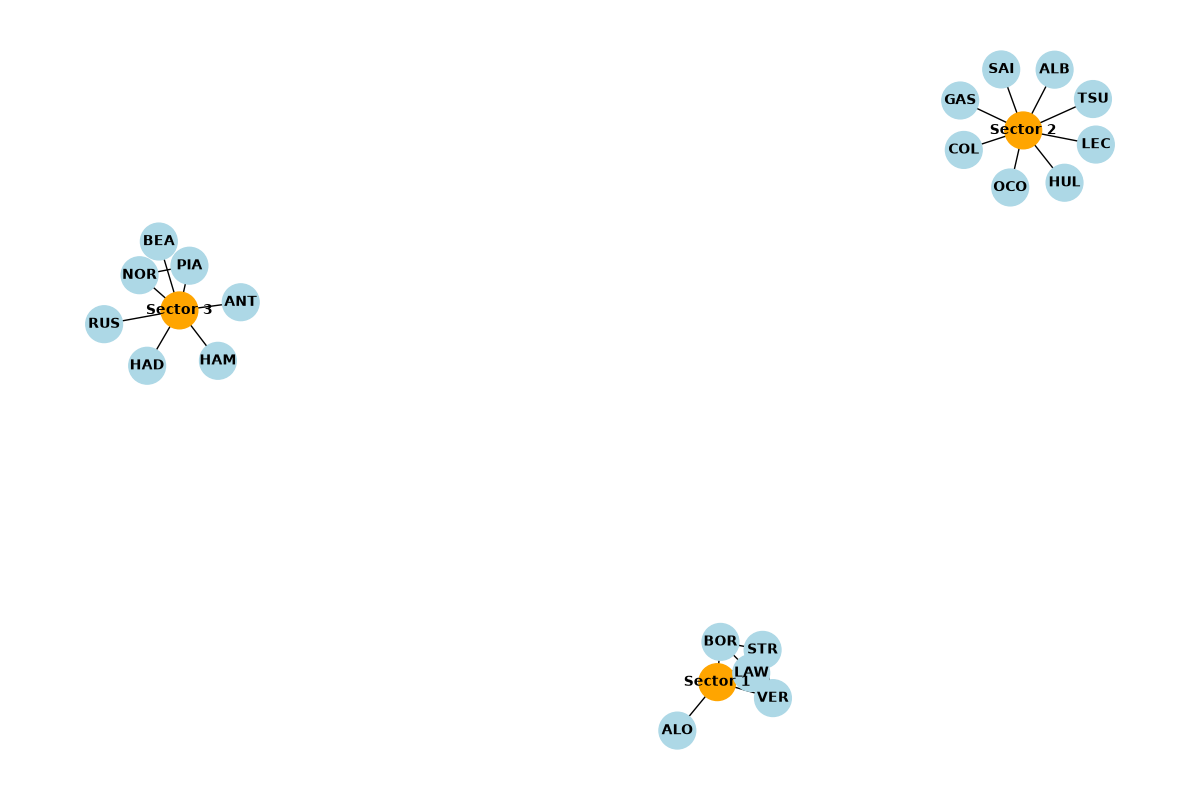
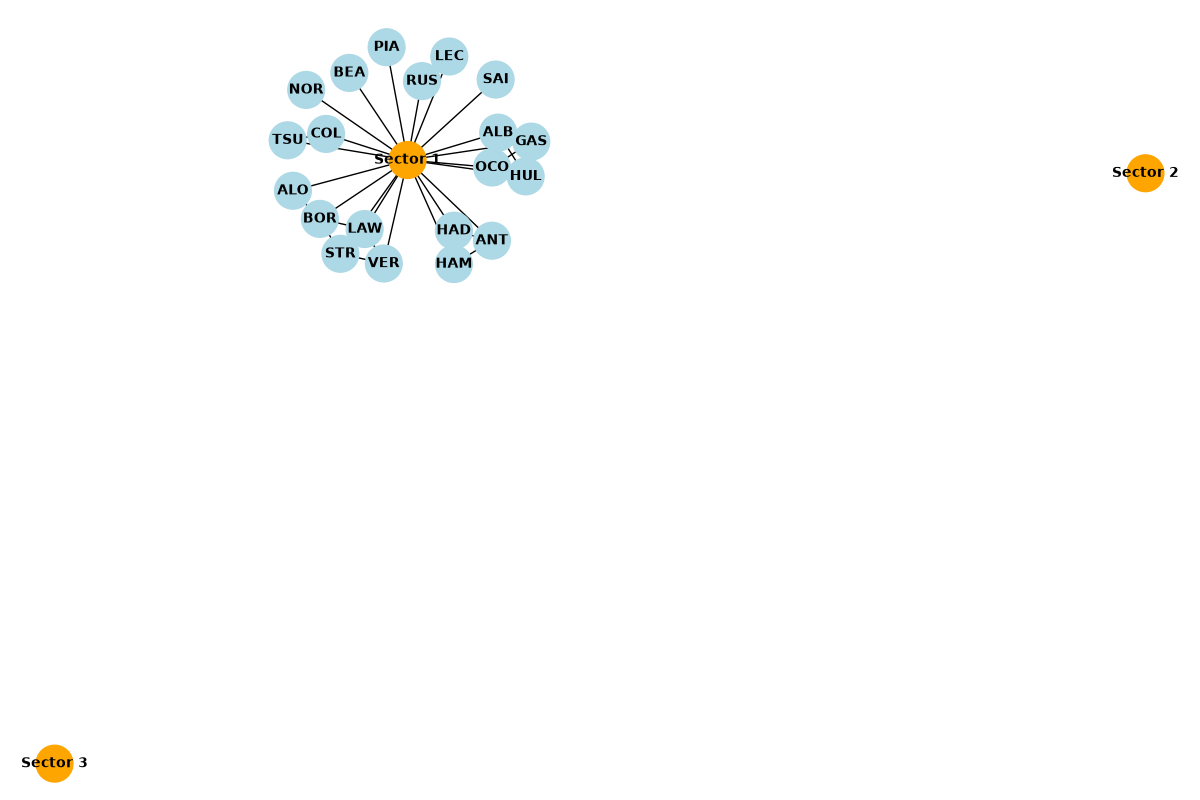
Driver Sectors incorrect lapping

diff --git a/SessionAnalyserClass.py b/SessionAnalyserClass.py
@@ -3,9 +3,10 @@ import os
 import numpy as np
 import pandas as pd
 import networkx as nx
+from pandas.core.indexers import check_key_length
 
 from DriverNodeClass import DriverNode
-from typing import List
+from typing import List, Dict, Any
 
 class SessionAnalyser:
     def __init__(self, year: int, location: str, session_type: str = 'R'):
@@ -17,7 +18,7 @@ class SessionAnalyser:
         self.session = fastf1.get_session(year, location, session_type)
         self.session.load()
 
-    def extract_all_drivers_at_lap(self, target_lap: int) -> List[DriverNode]:
+    def all_drivers_at_lap(self, target_lap: int) -> List[DriverNode]:
         """Extract all drivers and driver information at target_lap from session.drivers"""
         drivers = []
 
@@ -30,14 +31,11 @@ class SessionAnalyser:
         if leader_row.empty:
             leader_row = target_laps_df.iloc[[0]]
 
-        reference_session_time = leader_row['LapStartTime'].values[0]
         past_laps_all = laps_df[laps_df['LapNumber'] <= target_lap]
 
 
         for driver in self.session.drivers:
             driver_code = self.session.get_driver(driver)['Abbreviation']
-
-            driver_laps = self.session.laps[self.session.laps['Driver'] == driver_code]
             past_laps = past_laps_all[past_laps_all['Driver'] == driver_code]
 
             if past_laps.empty:
@@ -55,57 +53,7 @@ class SessionAnalyser:
             recent_laps_second = past_laps.tail(3)['LapTime'].dt.total_seconds()
             avg_time = round(recent_laps_second.mean(), 2) if len(recent_laps_second) > 0 else np.nan
 
-            current_sector = "Sector 1"
-            try:
-                active_lap = driver_laps[
-                    (driver_laps['LapStartTime'] <= reference_session_time) &
-                    (driver_laps['Time'] >= reference_session_time)
-                ]
-
-                if active_lap.empty:
-                    active_lap = driver_laps[
-                        (driver_laps['LapStartTime'] <= reference_session_time) &
-                        (driver_laps['LapStartTime'] + pd.Timedelta(seconds=120) >= reference_session_time)
-                    ].tail(1)
-
-                if active_lap.empty:
-                    active_lap = driver_laps[driver_laps['LapStartTime'] <= reference_session_time].tail(1)
-
-                if not active_lap.empty:
-                    active_lap_num = active_lap['LapNumber'].values[0]
-                    lap_row = active_lap.iloc[0]
-
-                    telemetry = self.session.laps.pick_drivers(driver_code).pick_laps(active_lap_num).get_telemetry()
-
-                    if not telemetry.empty and 'Distance' in telemetry.columns:
-                        time_diffs = (telemetry['SessionTime'] - reference_session_time).abs()
-                        closest_idx = time_diffs.argsort().iloc[0]
-                        current_distance = telemetry['Distance'].iloc[closest_idx]
-
-                        s1_time = lap_row['Sector1SessionTime']
-                        s2_time = lap_row['Sector2SessionTime']
-
-                        s1_dist, s2_dist = 0.0, 0.0
-                        if pd.notna(s1_time):
-                            s1_idx = (telemetry['SessionTime'] - s1_time).abs().argsort().iloc[0]
-                            s1_dist = telemetry['Distance'].iloc[s1_idx]
-                        if pd.notna(s2_time):
-                            s2_idx = (telemetry['SessionTime'] - s2_time).abs().argsort().iloc[0]
-                            s2_dist = telemetry['Distance'].iloc[s2_idx]
-
-                        if s1_dist == 0: s1_dist = 3000.0
-                        if s2_dist == 0: s2_dist = 7000.0
-
-                        if s1_dist > 0 and current_distance <= s1_dist:
-                            current_sector = "Sector 1"
-                        elif s2_dist > 0 and current_distance <= s2_dist:
-                            current_sector = "Sector 2"
-                        else:
-                            current_sector = "Sector 3"
-            except Exception:
-                pass
-
-            nearby_drivers = self.extract_nearby_drivers(driver_code, target_laps_df)
+            nearby_drivers = self.nearby_drivers(driver_code, target_laps_df)
 
             driver_obj = DriverNode(
                 driver_code=driver_code,
@@ -114,8 +62,7 @@ class SessionAnalyser:
                 tyre_age=age,
                 pit_stops=pit_count,
                 last_3_laps_average_seconds=avg_time,
-                nearby_drivers=nearby_drivers,
-                current_sector=current_sector
+                nearby_drivers=nearby_drivers
             )
 
             drivers.append(driver_obj)
@@ -123,7 +70,7 @@ class SessionAnalyser:
         return drivers
 
     @staticmethod
-    def extract_nearby_drivers(target_driver: str, target_laps_df) -> List[DriverNode]:
+    def nearby_drivers(target_driver: str, target_laps_df) -> List[DriverNode]:
         target_row = target_laps_df[target_laps_df['Driver'] == target_driver]
         if target_row.empty or pd.isna(target_row['Time'].values[0]):
             return []
@@ -149,13 +96,93 @@ class SessionAnalyser:
         nearby_drivers = sorted(nearby_drivers, key=lambda x: abs(x['time_gap']))
         return nearby_drivers
 
-    def build_session_graph(self, target_lap: int):
+    def sector_info(self, target_lap: int) -> Dict[str, Any]:
+        laps_df = self.session.laps
+        target_laps_df = laps_df[laps_df['LapNumber'] == target_lap]
+
+        if target_laps_df.empty:
+            return {}
+
+        leader_row = target_laps_df[target_laps_df['Position'] == 1]
+        if leader_row.empty:
+            leader_row = target_laps_df.iloc[[0]]
+
+        leader_code = leader_row['Driver'].values[0]
+
+        s1_crossing_time = leader_row['Sector1SessionTime'].values[0]
+        s2_crossing_time = leader_row['Sector2SessionTime'].values[0]
+        lap_end_crossing_time = leader_row['Sector3SessionTime'].values[0]
+
+        checkpoints = {
+            "Sector 1": (s1_crossing_time, 'Sector1SessionTime'),
+            "Sector 2": (s2_crossing_time, 'Sector2SessionTime'),
+            "Sector 3": (lap_end_crossing_time, 'Sector3SessionTime'),
+        }
+
+        results = {}
+
+        for checkpoint_name, (crossing_time, time_col) in checkpoints.items():
+            if pd.isna(crossing_time):
+                continue
+
+            drivers_at_moment = []
+
+            for driver in self.session.drivers:
+                driver_code = self.session.get_driver(driver)['Abbreviation']
+                driver_laps = laps_df[laps_df['Driver'] == driver_code]
+
+                if driver_laps.empty:
+                    continue
+
+                active_lap = driver_laps[
+                    (driver_laps['LapStartTime'] <= crossing_time) &
+                    (driver_laps['Time'] >= crossing_time)
+                ]
+
+                if active_lap.empty:
+                    active_lap = driver_laps[driver_laps['LapStartTime'] <= crossing_time].tail(1)
+
+                if not active_lap.empty:
+                    lap_row = active_lap.iloc[0]
+                    lap_num = active_lap['LapNumber'].values[0]
+
+                    s1_t = lap_row['Sector1SessionTime']
+                    s2_t = lap_row['Sector2SessionTime']
+
+                    if pd.notna(s1_t) and crossing_time <= s1_t:
+                        sec = "Sector 1"
+                    elif pd.notna(s2_t) and crossing_time <= s2_t:
+                        sec = "Sector 2"
+                    else:
+                        sec = "Sector 3"
+
+                    driver_checkpoint_time = lap_row[time_col]
+                    if pd.notna(driver_checkpoint_time) and pd.notna(crossing_time):
+                        time_delta = (driver_checkpoint_time - crossing_time) / np.timedelta64(1, 's')
+                    else:
+                        time_delta = np.nan
+
+                    drivers_at_moment.append({
+                        'driver_code': driver_code,
+                        'lap_number': lap_num,
+                        'sector_at_moment': sec,
+                        'time_gap': time_delta
+                    })
+
+            results[checkpoint_name] = {
+                'leader_code': leader_code,
+                'crossing_time': crossing_time,
+                'drivers_status': drivers_at_moment
+            }
+        return results
+
+    def build_session_graph(self, target_lap: int) -> nx.Graph:
         G = nx.Graph()
 
         for sector in ["Sector 1", "Sector 2", "Sector 3"]:
             G.add_node(sector, node_type='sector')
 
-        drivers = self.extract_all_drivers_at_lap(target_lap)
+        drivers = self.all_drivers_at_lap(target_lap)
 
         processed_proximity_edges = set()
 

diff --git a/main.py b/main.py
@@ -2,13 +2,31 @@ from SessionAnalyserClass import SessionAnalyser
 
 import matplotlib.pyplot as plt
 import networkx as nx
+import pandas as pd
+import numpy as np
+
+def format_time_mmssms(seconds):
+    """Másodpercet vagy Timedelta-t alakít PERC:MÁSODPERC:MILISEC formátumra"""
+    if pd.isna(seconds):
+        return "N/A"
+
+    if isinstance(seconds, (pd.Timedelta, np.timedelta64)):
+        total_seconds = pd.Timedelta(seconds).total_seconds()
+    else:
+        total_seconds = float(seconds)
+
+    minutes = int(total_seconds // 60)
+    secs = int(total_seconds % 60)
+    millisecs = int(round((total_seconds % 1) * 1000))
+
+    return f"{minutes:01d}:{secs:02d}:{millisecs:03d}"
 
 if __name__ == "__main__":
     analyzer = SessionAnalyser(year=2025, location='Hungarian Grand Prix', session_type='R')
-    target_lap = 1
-    lap_snapshot = analyzer.extract_all_drivers_at_lap(target_lap=target_lap)
+    target_lap = 55
+    lap_snapshot = analyzer.all_drivers_at_lap(target_lap=target_lap)
 
-    print(f"{'Driver':<8} | {'Pos':<4} | {'Tyre':<8} | {'Age':<4} | {'Pits':<5} | {'Avg Lap (s)':<12} | {'Sector':<8} | {'Nearby Drivers (within 5s)'}")
+    print(f"{'Driver':<8} | {'Pos':<4} | {'Tyre':<8} | {'Age':<4} | {'Pits':<5} | {'Avg Lap (s)':<12} | {'Nearby Drivers (within 5s)'}")
     print("-" * 110)
 
     for driver in lap_snapshot:
@@ -21,6 +39,7 @@ if __name__ == "__main__":
                 prefix = "+" if nb['status'] == 'behind' else "-"
                 nearby_list.append(f"{nb['driver_code']} ({prefix}{abs(nb['time_gap'])}s)")
             nearby_str = ", ".join(nearby_list)
+        formatted_avg_lap = format_time_mmssms(driver.last_3_laps_average_seconds)
 
 
         print(f"{driver.driver_code:<8} | "
@@ -28,10 +47,31 @@ if __name__ == "__main__":
               f"{str(driver.compound):<8} | "
               f"{str(driver.tyre_age):<4} | "
               f"{driver.pit_stops:<5} | "
-              f"{str(driver.last_3_laps_average_seconds):<12} | "
-              f"{driver.current_sector:<8} | "
+              f"{formatted_avg_lap:<12} | "
               f"{nearby_str}")
 
+    snapshots = analyzer.sector_info(target_lap=target_lap)
+
+    for sector_name, data in snapshots.items():
+        print(
+            f"--- Leader ({data['leader_code']}) finished: {sector_name} ---")
+        print(f"{'Driver':<8} | {'Sector':<16} | {'Lap':<5} | {'Leader'}")
+        print("-" * 60)
+
+        for info in data['drivers_status']:
+            if info['driver_code'] == data['leader_code']:
+                gap_str = "Leader"
+            elif info['lap_number'] < target_lap:
+                lap_diff = target_lap - info['lap_number']
+                gap_str = f"+{lap_diff} lap" if lap_diff == 1 else f"+{lap_diff} laps"
+            elif pd.isna(info['time_gap']):
+                gap_str = "N/A"
+            else:
+                prefix = "+" if info['time_gap'] > 0 else ""
+                gap_str = f"{prefix}{info['time_gap']:.3f}s"
+            print(f"{info['driver_code']:<8} | {info['sector_at_moment']:<16} | Lap {info['lap_number']:<5} | {gap_str}")
+        print("\n")
+'''
     race_graph = analyzer.build_session_graph(target_lap=target_lap)
 
     print(f"Gráf sikeresen létrejött!")
@@ -47,3 +87,5 @@ if __name__ == "__main__":
     plt.title("F1 Verseny Gráf - 20. kör (2025 Magyar Nagydíj)")
     plt.savefig("graph/graph_hu_25.png")
     plt.show()
+'''
+

diff --git a/DriverNodeClass.py b/DriverNodeClass.py
@@ -9,4 +9,3 @@ class DriverNode:
     pit_stops: int
     last_3_laps_average_seconds: float
     nearby_drivers: list
-    current_sector: str = "Sector 1"
